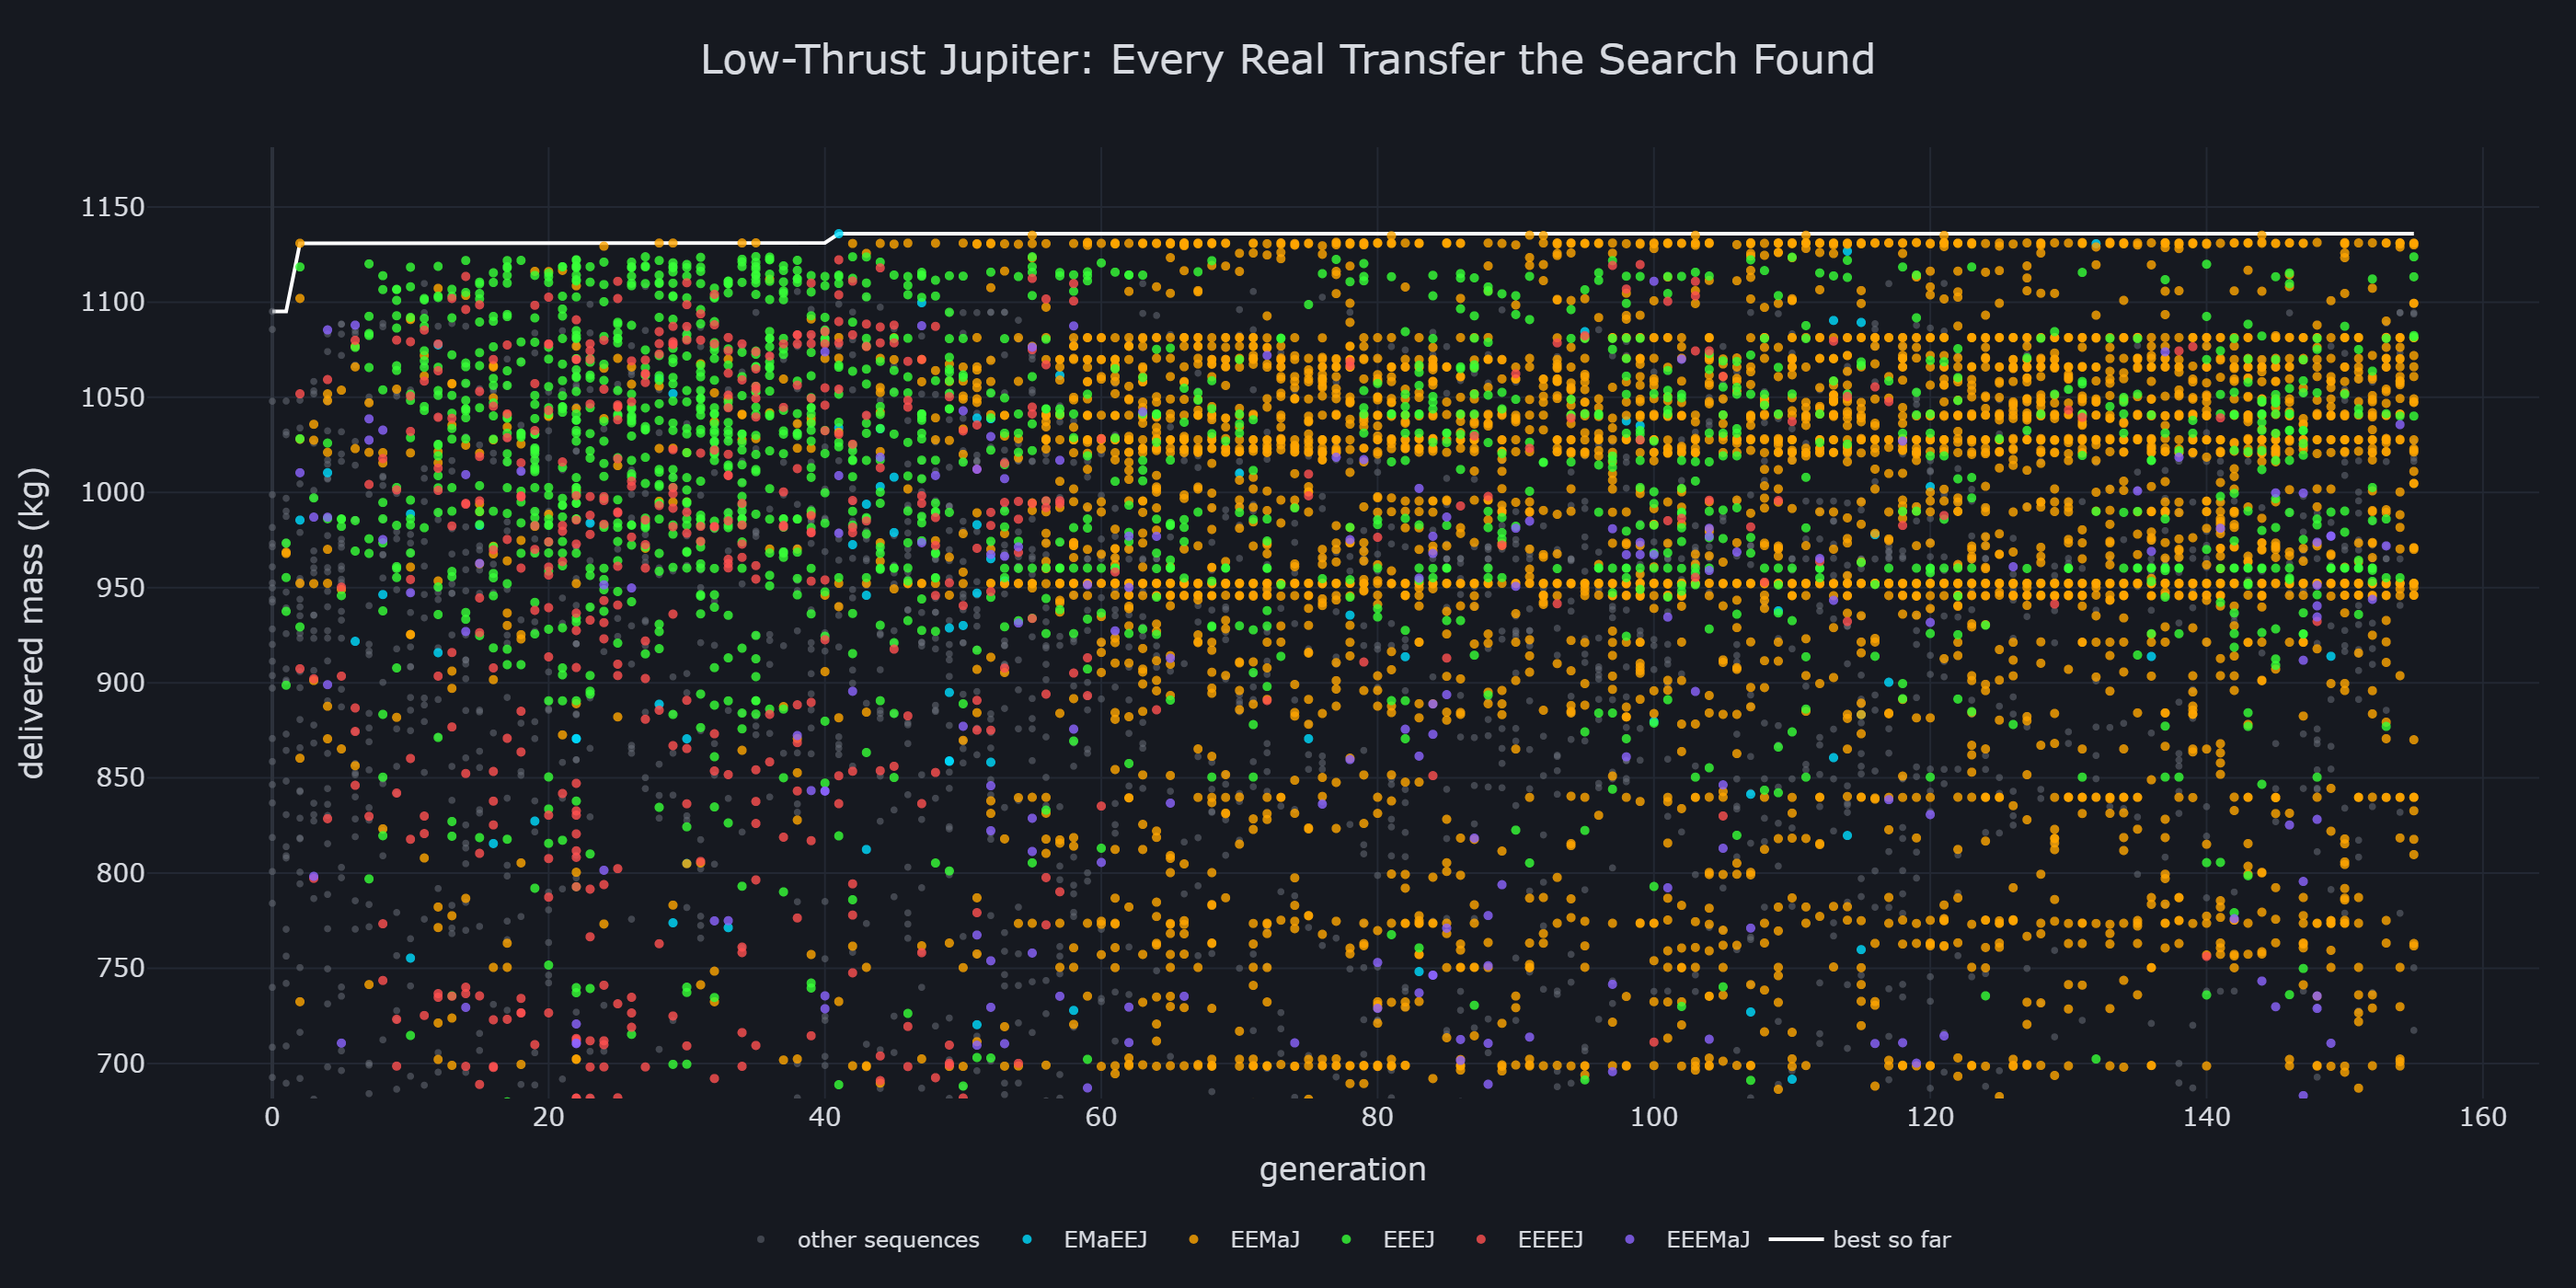
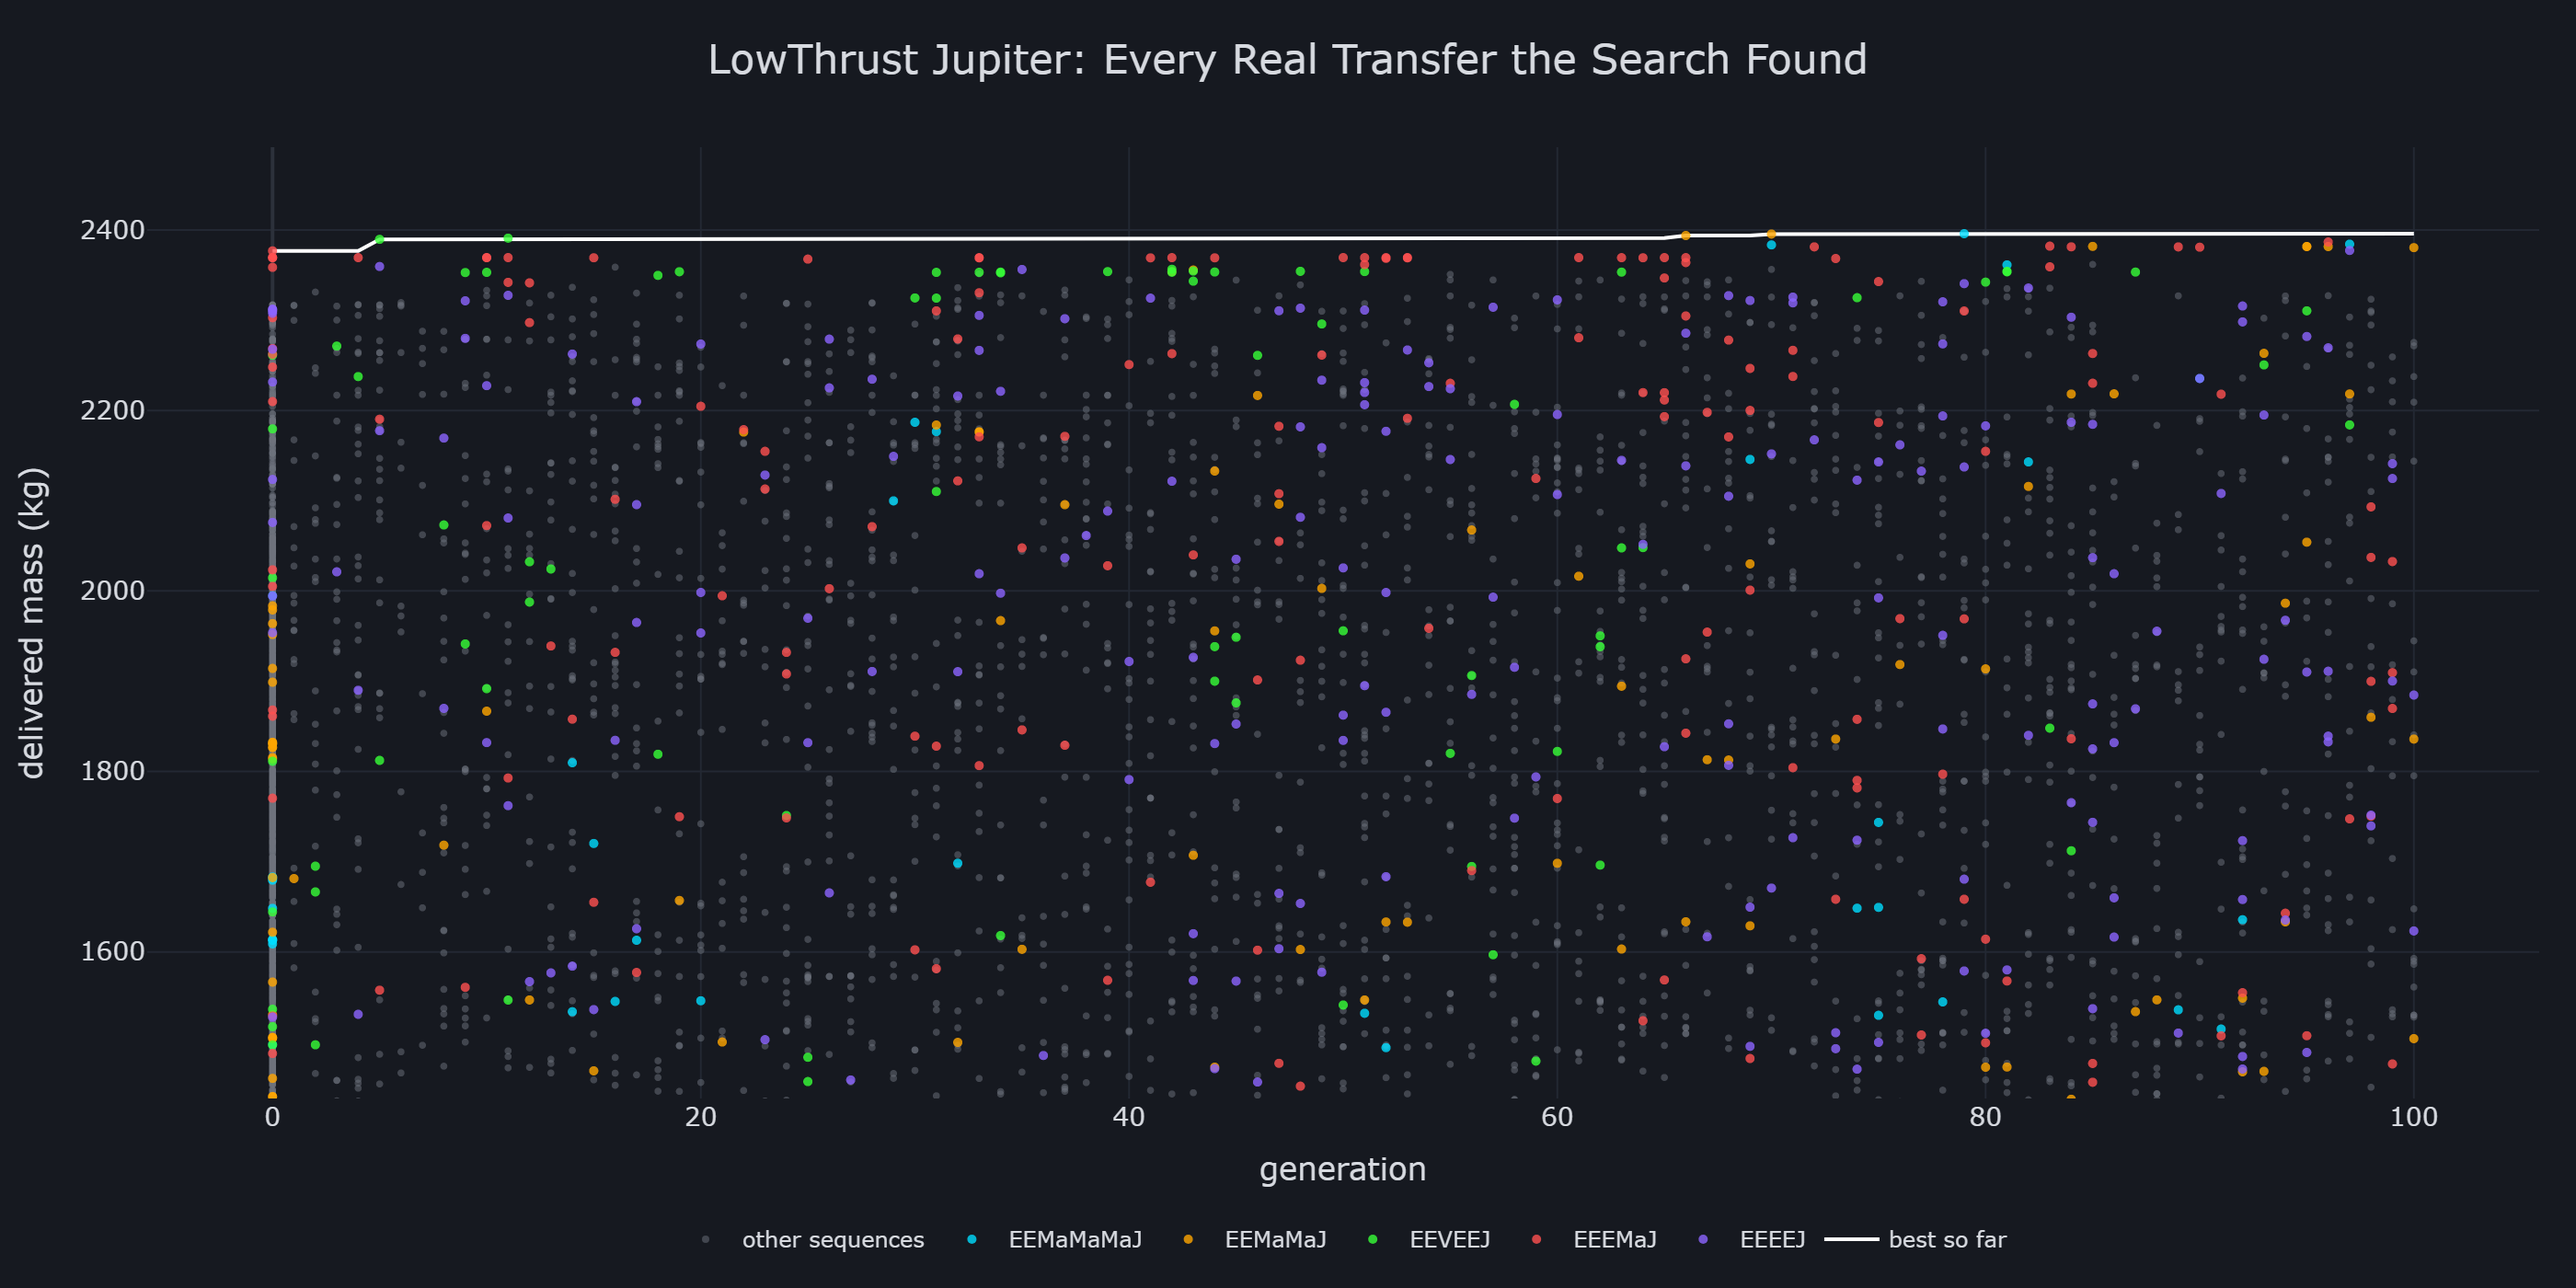
Gallery: solar-electric low-thrust searches launched on a Falcon 9

diff --git a/Epicycle/docs/src/gallery.md b/Epicycle/docs/src/gallery.md
@@ -160,24 +160,31 @@ evolve!(search)
 
 ![Europa Clipper best transfers](assets/gallery/GlobalSearch_Europa_Clipper_Best.png)
 
-Low-thrust transfers to Jupiter and Saturn for a 1500 kg spacecraft with a 0.1 N, 3000 s electric
-thruster, launching between 2030 and 2040 at up to 4 km/s, ten years of flight at most, and up to
-four flybys. Each leg is a Sims-Flanagan transcription, and the cost is the mass delivered after a
-chemical orbit insertion. These searches ran before the survey was added, so they are the genetic
-algorithm alone. Each of the three best was then solved again with every segment under 5 % throttle held at zero, so the coasts carry no residual thrust. The best to Jupiter delivers 1134 kg on a Mars, Earth, Earth tour; the best to Saturn delivers
-1284 kg through Earth twice and Jupiter. Thrust arcs are orange.
+Solar-electric transfers to Jupiter and Saturn, launched on a Falcon 9 between 2030 and 2040, with
+ten years of flight at most and up to four flybys. The launch mass follows the launch C3 on the
+Falcon 9 performance curve, and two NEXT-class thrusters give 0.47 N at 4100 s with full power at
+1 AU, falling as 1/r² beyond. Each leg is a Sims-Flanagan transcription, and the cost is the mass
+delivered after a chemical orbit insertion. Each search surveyed every sequence before the genetic
+algorithm ran, and each of the best transfers was then solved again with every segment under 5 %
+throttle held at zero, so the coasts carry no residual thrust. The best to Jupiter launches 3280 kg
+on an Earth, Mars, Mars, Mars tour, burns 316 kg of propellant and delivers 2394 kg; the best to
+Saturn launches 3280 kg through Earth twice and Jupiter, burns 259 kg and delivers 2736 kg. Thrust
+arcs are orange, with the thrust direction in red.
 
 ```julia
 using Epicycle
 
+falcon9 = LaunchVehicle(name = "Falcon 9 (ASDS)",
+                        coefficients = [3310.0, -105.4538, -2.663866, 0.2309244], max_c3 = 10.0)
+spacecraft = LowThrustSpacecraft(Isp = 4100.0, thrust = 0.47, power = SolarPower())
+
 R_J = 71492.0
-spacecraft = LowThrustSpacecraft(mass = 1500.0, Isp = 3000.0, thrust = 0.1)
 to_jupiter = LowThrustMission(departure = earth, target = jupiter,
                               flyby_bodies = [venus, earth, mars], max_flybys = 4,
-                              launch_window = ("2030-01-01", "2040-01-01"),
-                              max_flight_time = 3652.5, max_launch_vinf = 4.0, spacecraft = spacecraft,
+                              launch_window = ("2030-01-01", "2040-01-01"), max_flight_time = 3652.5,
+                              spacecraft = spacecraft, launch_vehicle = falcon9,
                               arrival = OrbitInsertion(periapsis = 4R_J, apoapsis = 150R_J, Isp = 320.0))
-search = GlobalSearch(to_jupiter; folder = "jupiter", population = 150, generations = 300, workers = 5)
+search = GlobalSearch(to_jupiter; folder = "jupiter", population = 150, generations = 100, workers = 5)
 evolve!(search)
 ```
 
